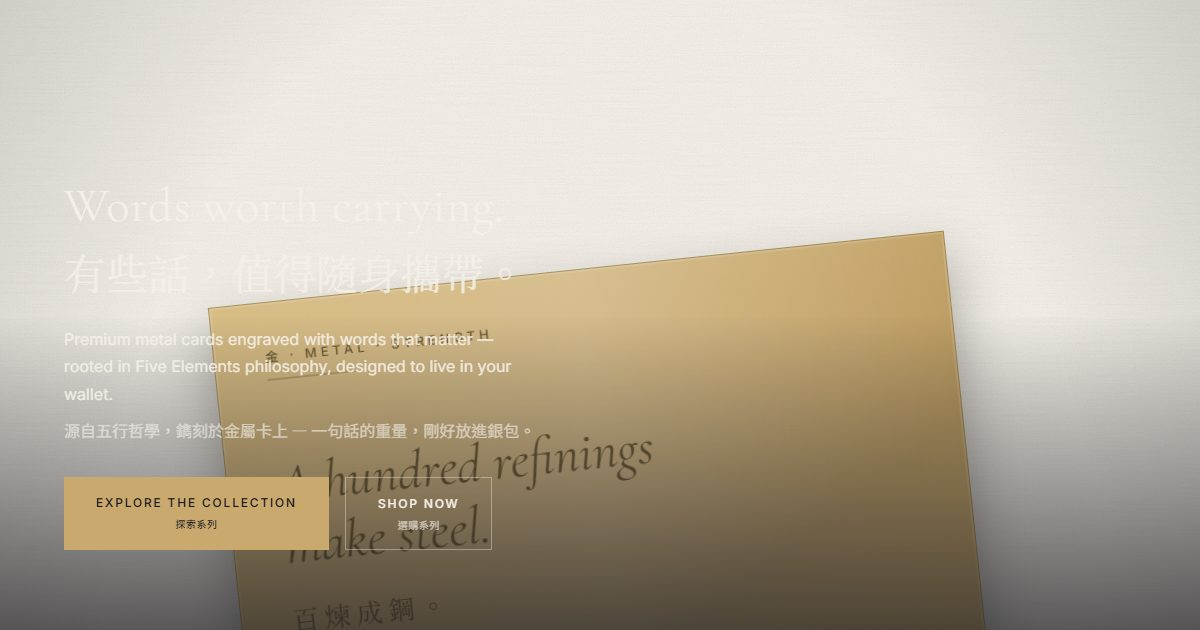
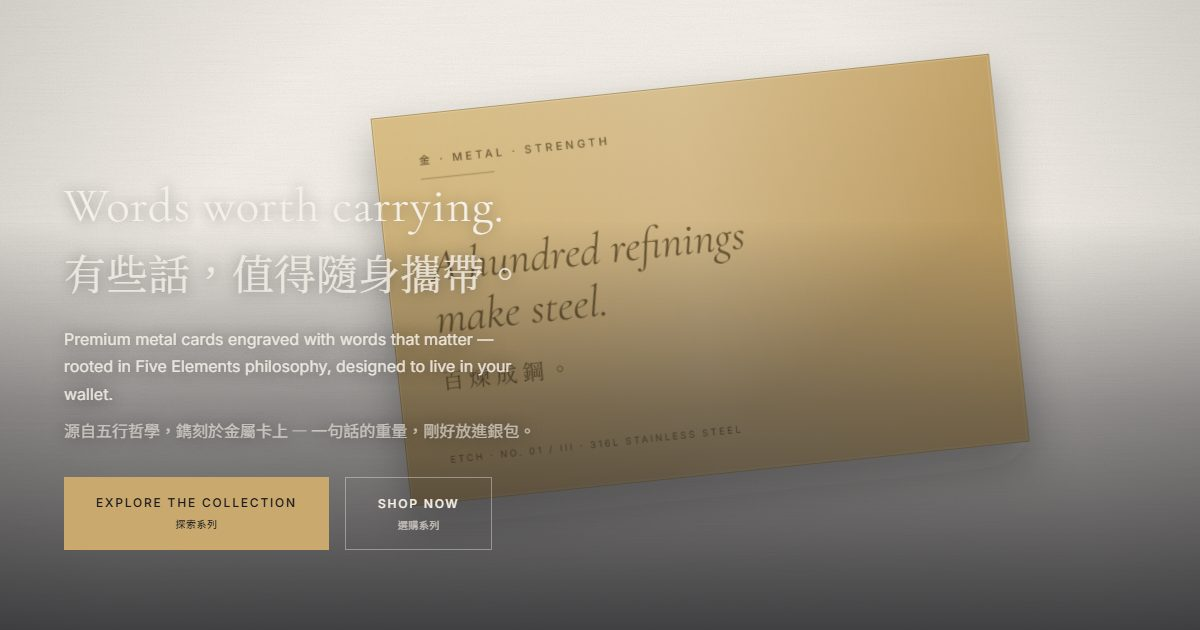
fix(hero): legibility over the interim visual; tab bar below the nav
On phones the hero copy block fills ~70% of the viewport, so the old
bottom-half gradient left cream text on cream and gold. The scrim now
spans the full height on mobile (65% on desktop), the headline and
lede get a soft text shadow, and the interim card is smaller and sits
up and to the right so it clears the copy on both layouts. The 金木水
tab bar now sticks just below the fixed site nav instead of under it
(new E2E assertion). OG image regenerated.

diff --git a/css/hero.css b/css/hero.css
@@ -27,9 +27,22 @@
   bottom: 0;
   left: 0;
   right: 0;
-  height: 50%;
-  background: linear-gradient(to top, rgba(26, 26, 30, 0.7) 0%, transparent 100%);
+  /* Mobile: the copy block fills ~70% of the viewport, so the scrim must reach most of the way up */
+  height: 100%;
+  background: linear-gradient(
+    to top,
+    rgba(26, 26, 30, 0.88) 0%,
+    rgba(26, 26, 30, 0.66) 38%,
+    rgba(26, 26, 30, 0.28) 66%,
+    transparent 100%
+  );
   z-index: 2;
+}
+
+.hero__title,
+.hero__title-tc,
+.hero__subtitle {
+  text-shadow: 0 1px 14px rgba(26, 26, 30, 0.5);
 }
 
 .hero__content {
@@ -105,6 +118,11 @@
 }
 
 @media (min-width: 1024px) {
+  .hero__gradient {
+    height: 65%;
+    background: linear-gradient(to top, rgba(26, 26, 30, 0.82) 0%, rgba(26, 26, 30, 0.45) 55%, transparent 100%);
+  }
+
   .hero__content {
     padding: var(--space-12) var(--space-16) var(--space-20);
     max-width: 600px;

diff --git a/tests/e2e/elements.spec.js b/tests/e2e/elements.spec.js
@@ -39,3 +39,20 @@ test.describe("Five Elements stages", () => {
     });
   }
 });
+
+test.describe("Element tabs", () => {
+  test("tab bar sits directly below the sticky nav while inside a stage", async ({ page }) => {
+    await page.goto("/");
+    await scrollIntoStage(page, "#element-wood", 0.4);
+    const pos = await page.evaluate(() => {
+      const nav = document.getElementById("site-nav");
+      return {
+        navVisible: nav.classList.contains("is-visible"),
+        navHeight: nav.getBoundingClientRect().height,
+        tabsTop: document.getElementById("element-tabs").getBoundingClientRect().top,
+      };
+    });
+    expect(pos.navVisible).toBe(true);
+    expect(Math.abs(pos.tabsTop - pos.navHeight)).toBeLessThan(2);
+  });
+});

diff --git a/index.html b/index.html
@@ -97,7 +97,7 @@
         <rect width="1200" height="1600" fill="url(#hero-vignette)"/>
 
         <!-- the card, resting at a slight angle in the upper-middle third -->
-        <g transform="translate(600 500) rotate(-6) translate(-370 -232)" filter="url(#card-shadow)">
+        <g transform="translate(700 280) rotate(-6) scale(0.84) translate(-370 -232)" filter="url(#card-shadow)">
           <rect width="740" height="464" fill="url(#card-gold)"/>
           <rect width="740" height="464" filter="url(#card-brush)" opacity="0.5"/>
           <rect width="740" height="464" fill="url(#card-sheen)"/>

diff --git a/css/element-tabs.css b/css/element-tabs.css
@@ -1,6 +1,6 @@
 .element-tabs {
   position: sticky;
-  top: 0;
+  top: var(--nav-height-mobile); /* below the fixed site nav */
   z-index: 10;
   display: flex;
   justify-content: center;
@@ -46,6 +46,10 @@
 }
 
 @media (min-width: 1024px) {
+  .element-tabs {
+    top: var(--nav-height-desktop);
+  }
+
   .element-tabs__btn {
     font-size: 22px;
   }
